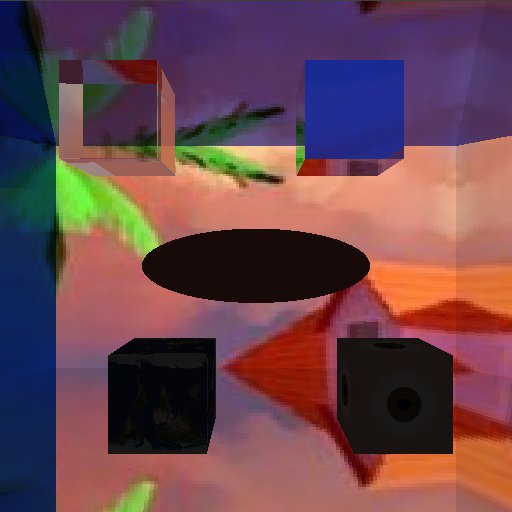
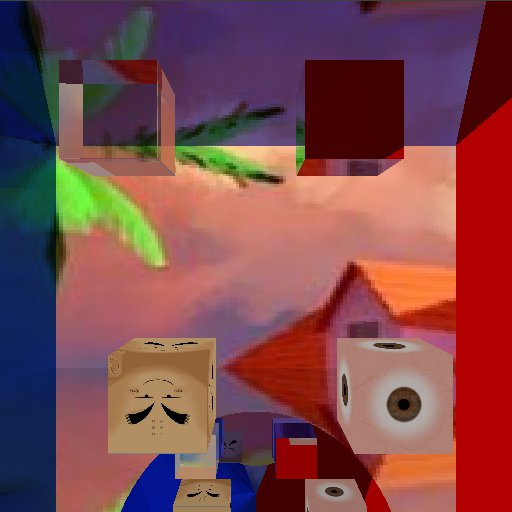
update:RT3
Final

diff --git a/RayTracer2023.py b/RayTracer2023.py
@@ -25,7 +25,7 @@ eyeTexture = pygame.image.load("./textures/eye.jpg")
 dragonBall = pygame.image.load("./textures/dragonBall.jpg")
 krilinTexture = pygame.image.load("./textures/Krilin.png")
 brick = Material(diffuse=(1,0.4,0.4),spec=8,Ks=0.01)
-brick2 = Material(diffuse=(1,0.4,0.4),spec=0,Ks=1)
+red = Material(diffuse=(1,0,0),spec=0,Ks=1)
 grass = Material(diffuse=(0.4,1,0.4),spec=32,Ks=0.1)
 water = Material(diffuse=(0.4,0.4,1),spec=256,Ks=0.2)
 mirror = Material(diffuse=(0.9,0.9,0.9),spec=64,Ks=0.2,matType=REFLECTIVE)
@@ -41,7 +41,7 @@ diamond = Material(diffuse=(0.9,0.9,0.9),spec=128,Ks=0.2,ior=2.417,matType=TRANS
 water = Material(diffuse=(0.1,0.4,0.9),spec=128,Ks=0.2,ior=1.33,matType=TRANSPARENT)
 raytracer.scene.append(AABB(position = (-1.5,1.5,-5), size = (1,1,1), material=glass))
 
-raytracer.scene.append(AABB(position = (-1.0,-1.5,-5), size = (1,1,1), material=earth))
+raytracer.scene.append(AABB(position = (-1.0,-1.5,-5), size = (1,1,1), material=krilin))
 raytracer.scene.append(AABB(position = (1.0,1.5,-5), size = (1,1,1), material=mirror))
 raytracer.scene.append(AABB(position = (1.5,-1.5,-5), size = (1,1,1), material=eye))
 
@@ -52,13 +52,13 @@ raytracer.scene.append(AABB(position = (1.5,-1.5,-5), size = (1,1,1), material=e
 # raytracer.scene.append(Sphere(position=(+1.7,	-1.5,	-5),		radius=0.8,	material=glass))
 # raytracer.scene.append(Sphere(position=(+1.7,	+1.0,	-5),		radius=0.8,	material=diamond))
 
-raytracer.scene.append(Plane(position=(1,1,10000),normal=(0,-1,0.25),material=mirror))
+raytracer.scene.append(Plane(position=(1,1,10000),normal=(0,-1,0.25),material=glass))
 raytracer.scene.append(Plane(position=(1,1,1),normal=(0,1,0.25),material=blueMirror))
 raytracer.scene.append(Plane(position=(-1,1,1),normal=(1,0,-0.45),material=water))
-raytracer.scene.append(Plane(position=(1,1,1),normal=(1,0,0.45),material=glass))
-raytracer.scene.append(Disk(position=(0,-0,-6),normal=(0,1.5,0.5),radius=1.5,material=brick2))
+raytracer.scene.append(Plane(position=(1,1,1),normal=(1,0,0.45),material=red))
+raytracer.scene.append(Disk(position=(0,-4,-6),normal=(0,1.5,1.5),radius=2,material=mirror))
 
-raytracer.lights.append(AmbientLight(intensity=0.1))
+raytracer.lights.append(AmbientLight(intensity=0.7))
 raytracer.lights.append(DirectionalLight(direction=(-1,-1,-1),intensity=0.9))
 raytracer.lights.append(PointLight(point=(0,-0,-6),intensity=1))
 
